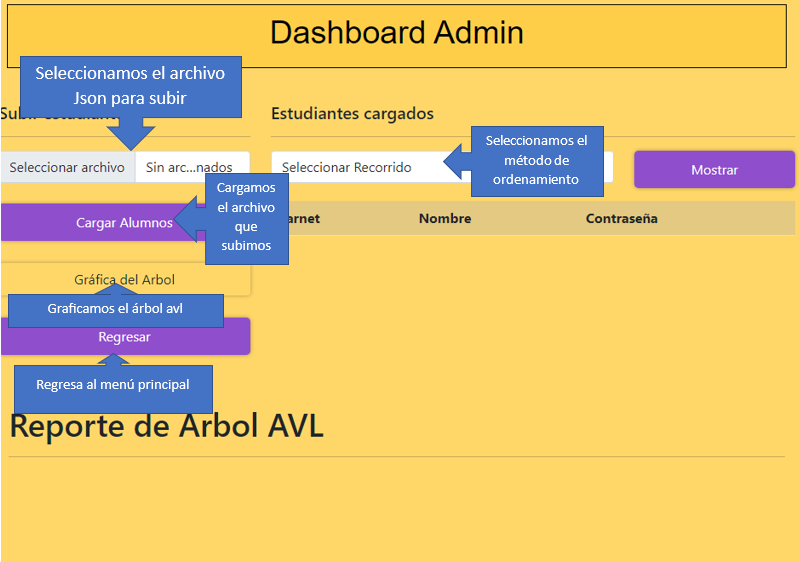
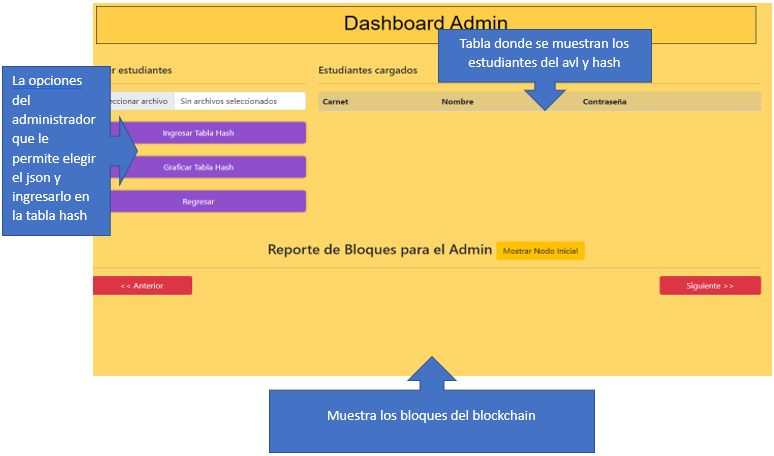
Manuales

diff --git a/EDD_Proyecto1_Fase3/chat.html b/EDD_Proyecto1_Fase3/chat.html
@@ -38,12 +38,22 @@
                 <!-- FORMULARIO PARA ESCRIBIR MENSAJES EMISOR -->
                 <div class="form-group">
                     <div class="row">
-                        <div class="col-9">
+                        <div class="col-6">
                             <input type="text" class="form-control" id="msg-transmitter"/>
                         </div>
-                        <div class="col-3">
+                        <div class="col-2">
                             <button class="btn btn-success w-100" onclick="sendMessage('transmitter')">Enviar</button>
+                            
                         </div>
+
+                        <div class="col-2" >
+                                
+                            <button class="btn btn-primary w-100" onclick="updateChats()"> Actualizar Chat</button>
+                        </div>
+                        <div class="col-2">
+                            <button class="btn btn-primary w-100" onclick="volver()"> Regresar</button>
+                        </div>
+                       
                     </div>
                 </div>
                 <!-- ----------------------------------------------------- -->
@@ -51,12 +61,6 @@
             </div>
 
             <!-- BOTON PARA ACTUALIZAR LOS MENSAJES -->
-            <div class="col-2">
-                <div class="d-flex align-items-center mt-3" style="padding-top: 200px;">
-                    
-                    <button class="btn btn-primary w-100" onclick="updateChats()"> Actualizar Chat</button>
-                </div>
-            </div>
 
             
         </div>

diff --git a/EDD_Proyecto1_Fase3/admin.html b/EDD_Proyecto1_Fase3/admin.html
@@ -25,7 +25,7 @@
                     </div>
                 </form>
                 <input type="buttom" class="boton mt-3" onclick="graficarHash()" value="Graficar Tabla Hash"> </button>
-                <a onclick="showAvlGraph()" class="btn boton w-100 mt-3">Gráfica del Arbol</a>
+
                 
                 <input type="buttom" class="boton mt-3" onclick="volver()" value="Regresar"> </button>
             </div>

diff --git a/EDD_Proyecto1_Fase3/estudiante.html b/EDD_Proyecto1_Fase3/estudiante.html
@@ -62,11 +62,6 @@
             <hr>
             <img id="graph">
         </div>
-        <div class="ROW">
-            <h3>Bitacora</h3>
-            <hr>
-            <img id="bitacora">
-        </div>
         
     </div>    
 

diff --git a/EDD_Proyecto1_Fase3/ManualTecnico.md b/EDD_Proyecto1_Fase3/ManualTecnico.md
@@ -1,0 +1,58 @@
+###### Universidad de San Carlos de Guatemala
+###### Facultad de Ingeniería
+###### Estructuras de Datos
+###### Primer Semestre de 2023
+
+|Nombre  | Carnet | 
+|------------- | -------------|
+|Jorge Sebastian Zamora Polanco  | 202002591|
+
+# Manual Tecnico
+
+## Proyecto EDD "Go Drive"  Fase:3
+
+### Resumen
+El sistema debe tener un funcionamiento similar a Google Drive con la característica que nos da el enunciado,  además de otras características propias de la aplicación. 
+
+Estructuras a utilizar:
+- Árbol AVL: Usuarios que estén en el sistema ya aceptados.
+- Matriz Dispersa: Se utilizará para manejar permisos en las carpetas del
+directorio actual.
+- Árbol Multicamino o N-ario: se usará para el manejo de los sistemas de
+archivos.
+- Lista Circular: Manejo de logs, creación o eliminación de carpetas o archivos
+ligados a cada usuario
+
+## Descripcion de los paquetes
+a continuacion se describe las funciones y las estructuras
+
+### scripts: admin
+
+|  Función | Descripción  |
+| :------------: | :------------: |
+|  cargarEstudiante   |  Lee el archivo Json que se le envia y lo guarda en el avl, luego hace un recorrido in order para guardarlo en la Tabla Hash con la contraseña encriptada en SHA256  |
+|   graficarHash | cambia la tabla y lo pone en el orden como esta en la tabla hash con la contraseña ya encriptada |
+|   Buscar | Revisa en la tabla Hash que el carnet y la contraseña coincidan y redirige a la pagina de los estudiantes  |
+| crearCarpeta | funcion que crea una carpeta y la muestra en la pagina |
+| entrarCarpeta | hace que podamos entrar a una carpera dandole click |
+| showTreeGraph |muestra el grafo no dirigido |
+
+### scripts: cliente
+
+|  Función | Descripción  |
+| :------------: | :------------: |
+|  updateChats   | Actualiza el chat, pone los archivos recividos o entregados   |
+|   sendMessage | Guarda el transmisor, receptor, mensaje y hora en la lista doble del blockchain |
+|   getFormattedDateTime | devuelve la hora y fecha actual  |
+| getBlock | obtiene el bloque y lo imprime en el admin |
+
+
+
+### Estrucuras 
+
+| Estructura  |  Descripción |
+| :------------: | :------------: |
+| avl-tree | Crea el arbol avl de los estudiantes cargados de json|
+|  nario-tree |   maneja los directorio que crea el estudiante en una estuctura de un arbol N-ario |
+|  tablaHash |  Guarda los estudiantes con su contraseña encriptada en SHA256  |
+|blockchain| maneja en una lista doble los mensajes con su infomacion en un bloque de los chats entre estudiantes |

diff --git a/EDD_Proyecto1_Fase3/README.md b/EDD_Proyecto1_Fase3/README.md
@@ -7,56 +7,3 @@
 |------------- | -------------|
 |Jorge Sebastian Zamora Polanco  | 202002591|
 
-# Manual Tecnico
-
-## Proyecto EDD "Go Drive"  Fase:2
-
-### Resumen
-El sistema debe tener un funcionamiento similar a Google Drive con la característica que nos da el enunciado,  además de otras características propias de la aplicación. 
-
-Estructuras a utilizar:
-- Árbol AVL: Usuarios que estén en el sistema ya aceptados.
-- Matriz Dispersa: Se utilizará para manejar permisos en las carpetas del
-directorio actual.
-- Árbol Multicamino o N-ario: se usará para el manejo de los sistemas de
-archivos.
-- Lista Circular: Manejo de logs, creación o eliminación de carpetas o archivos
-ligados a cada usuario
-
-## Descripcion de los paquetes
-a continuacion se describe las funciones y las estructuras
-### scripts: admin
-
-|  Función | Descripción  |
-| :------------: | :------------: |
-|  cargarEstudiante   |  Lee el archivo Json que se le envia y lo guarda en el arbol Avl |
-|   showStudentsForm | Nos muestra a los estudiantes en el orden que querramos |
-|   showAvlGraph | Muestra el arbol Avl graficado  |
-| administrador  | valida si somos administrador o un usuario |
-| crearCarpeta | funcion que crea una carpeta y la muestra en la pagina |
-| entrarCarpeta | hace que podamos entrar a una carpera dandole click |
-| showTreeGraph |muestra el arbol N ario del estudiante |
-|  ShowBitacora |   Muestra la lista circular del estudiante |
-|  deleteCarpeta |  Elimina la carpeta que querramos |
-
-### Estrucuras 
-
-| Estructura  |  Descripción |
-| :------------: | :------------: |
-| avl-tree | Crea el arbol avl de los estudiantes y tambien hace que cada nodo tenga un arbol N ario y una lista circular |
-|  nario-tree |   maneja los directorio que crea el estudiante en una estuctura de un arbol N-ario |
-|  circular-list |  En esta estructura se guarda la informacion de los movimientos de los usuarios |
-
-# Manual Usuario
-
-#### Inicio de sesion
-
-![](./imagenes/inicio.png)
-
-#### administrador
-
-![](./imagenes/admin.png)
-
-#### estudiante
-
-![](./imagenes/estudiante.png)

diff --git a/EDD_Proyecto1_Fase3/ManualUsuario.md b/EDD_Proyecto1_Fase3/ManualUsuario.md
@@ -1,0 +1,26 @@
+###### Universidad de San Carlos de Guatemala
+###### Facultad de Ingeniería
+###### Estructuras de Datos
+###### Primer Semestre de 2023
+
+|Nombre  | Carnet | 
+|------------- | -------------|
+|Jorge Sebastian Zamora Polanco  | 202002591|
+
+# Manual Usuario
+
+#### Inicio de sesion
+
+![](./imagenes/inicio.png)
+
+#### inicio de administrador
+
+![](./imagenes/admin.png)
+
+#### inicio de estudiante
+
+![](./imagenes/estudiante.png)
+
+#### chat entre estudiantes
+
+![](./imagenes/chat.png)
